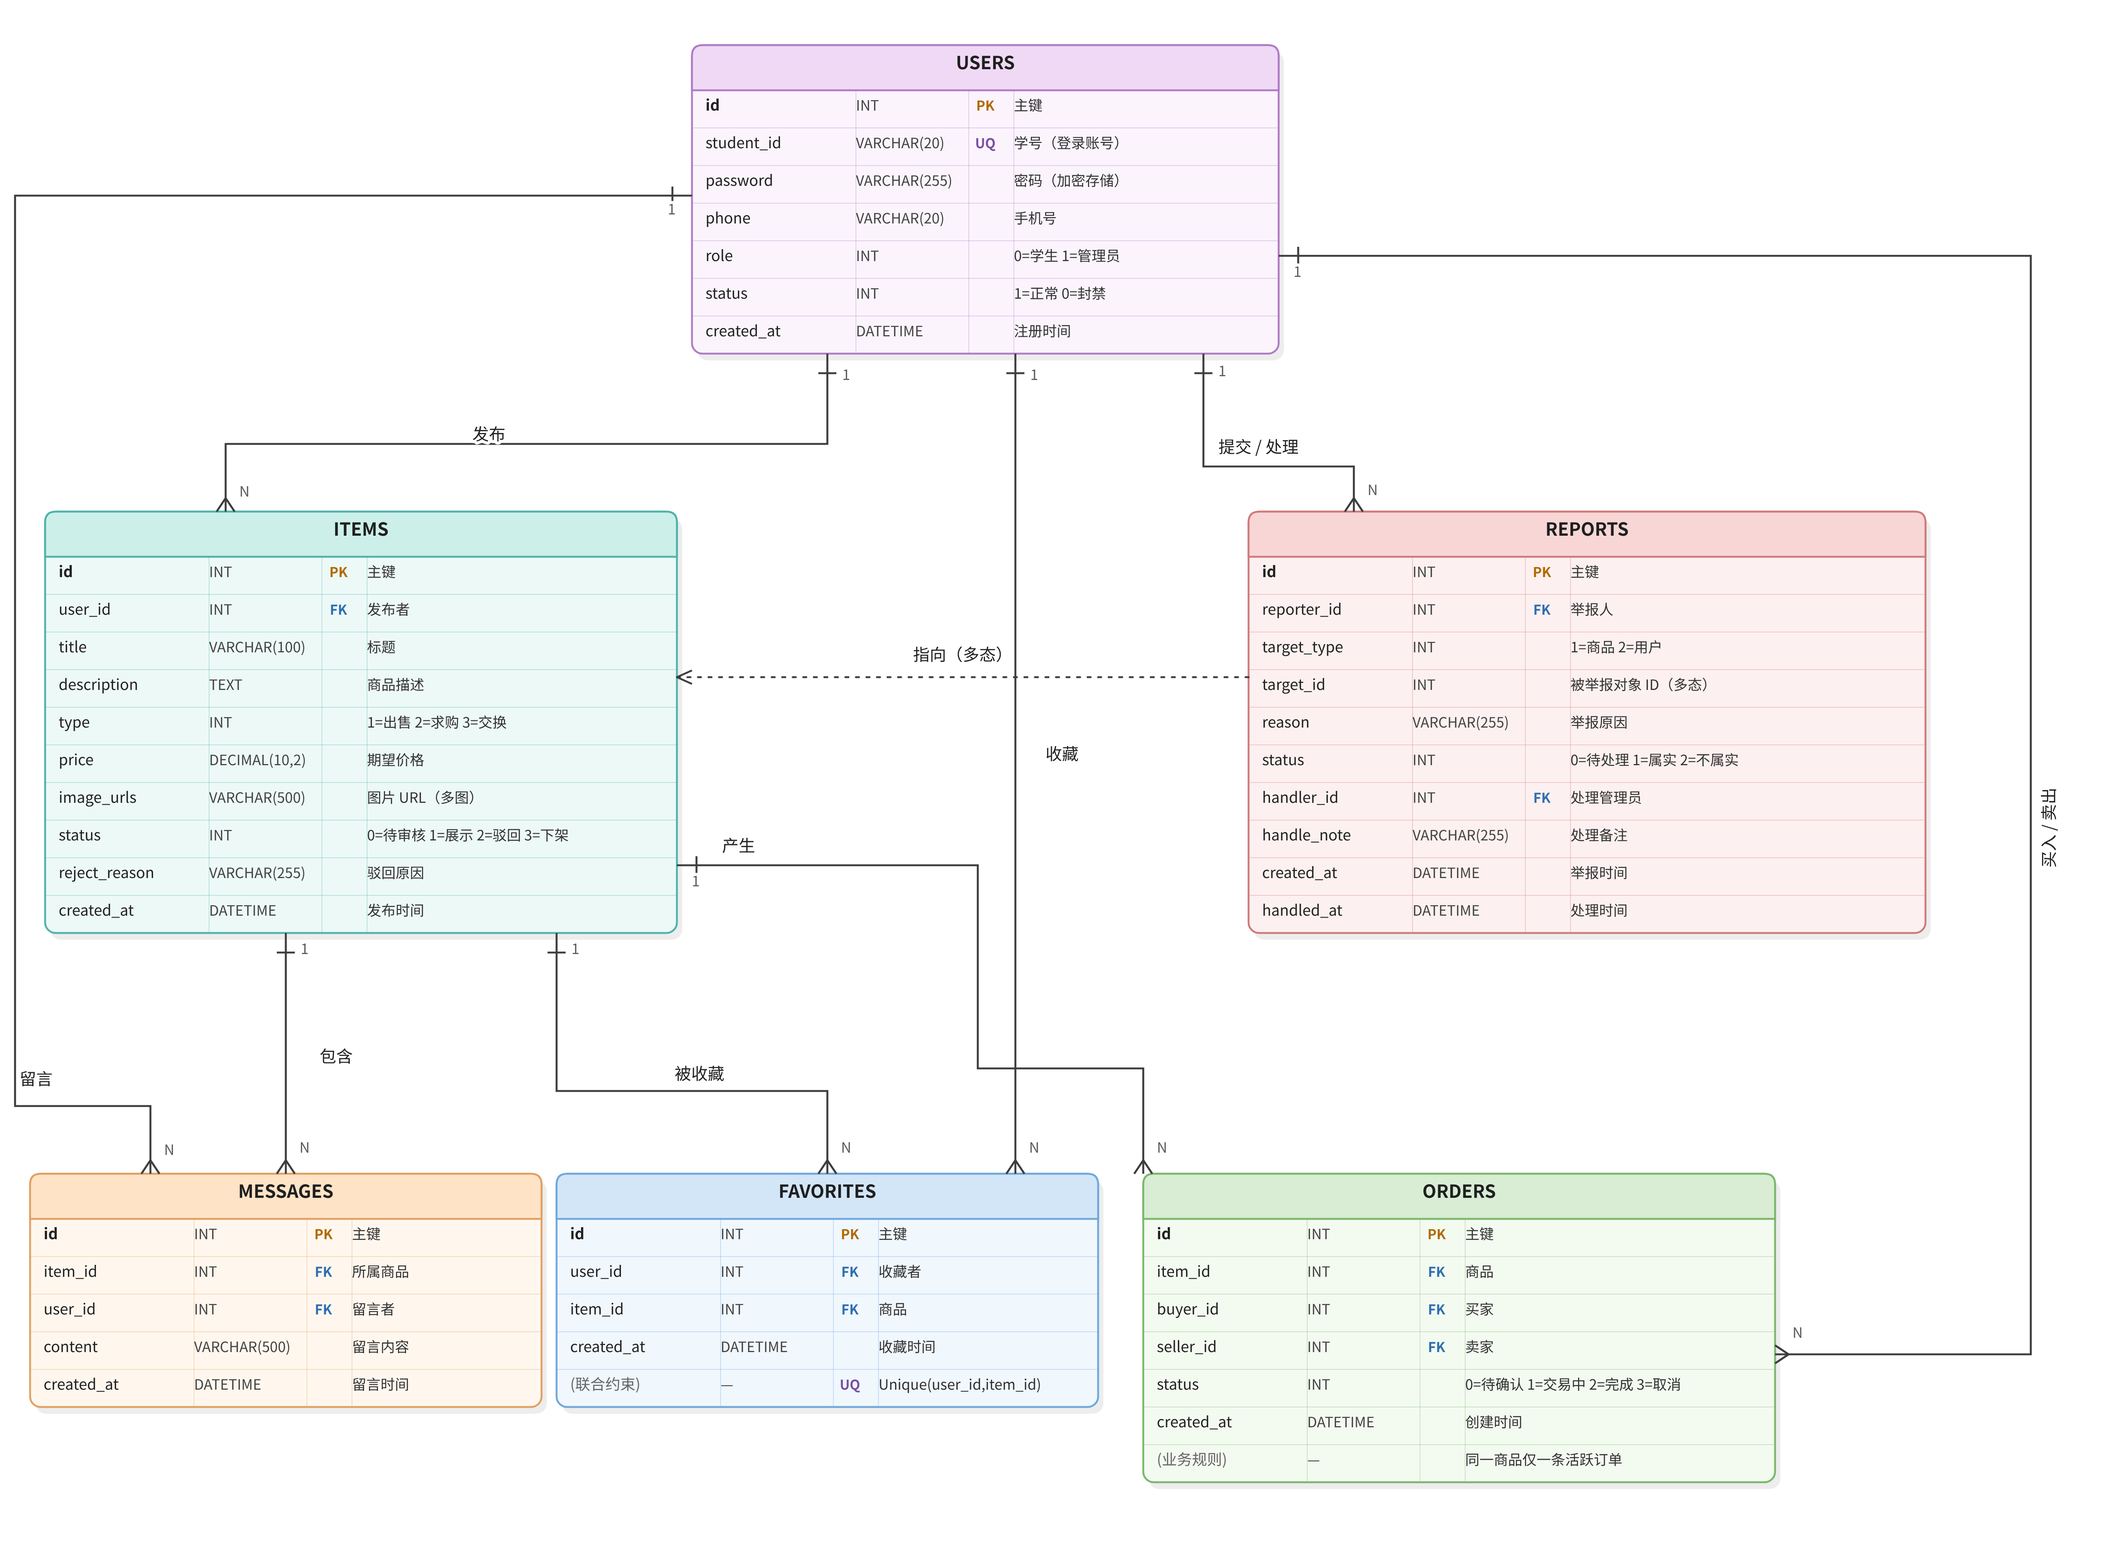
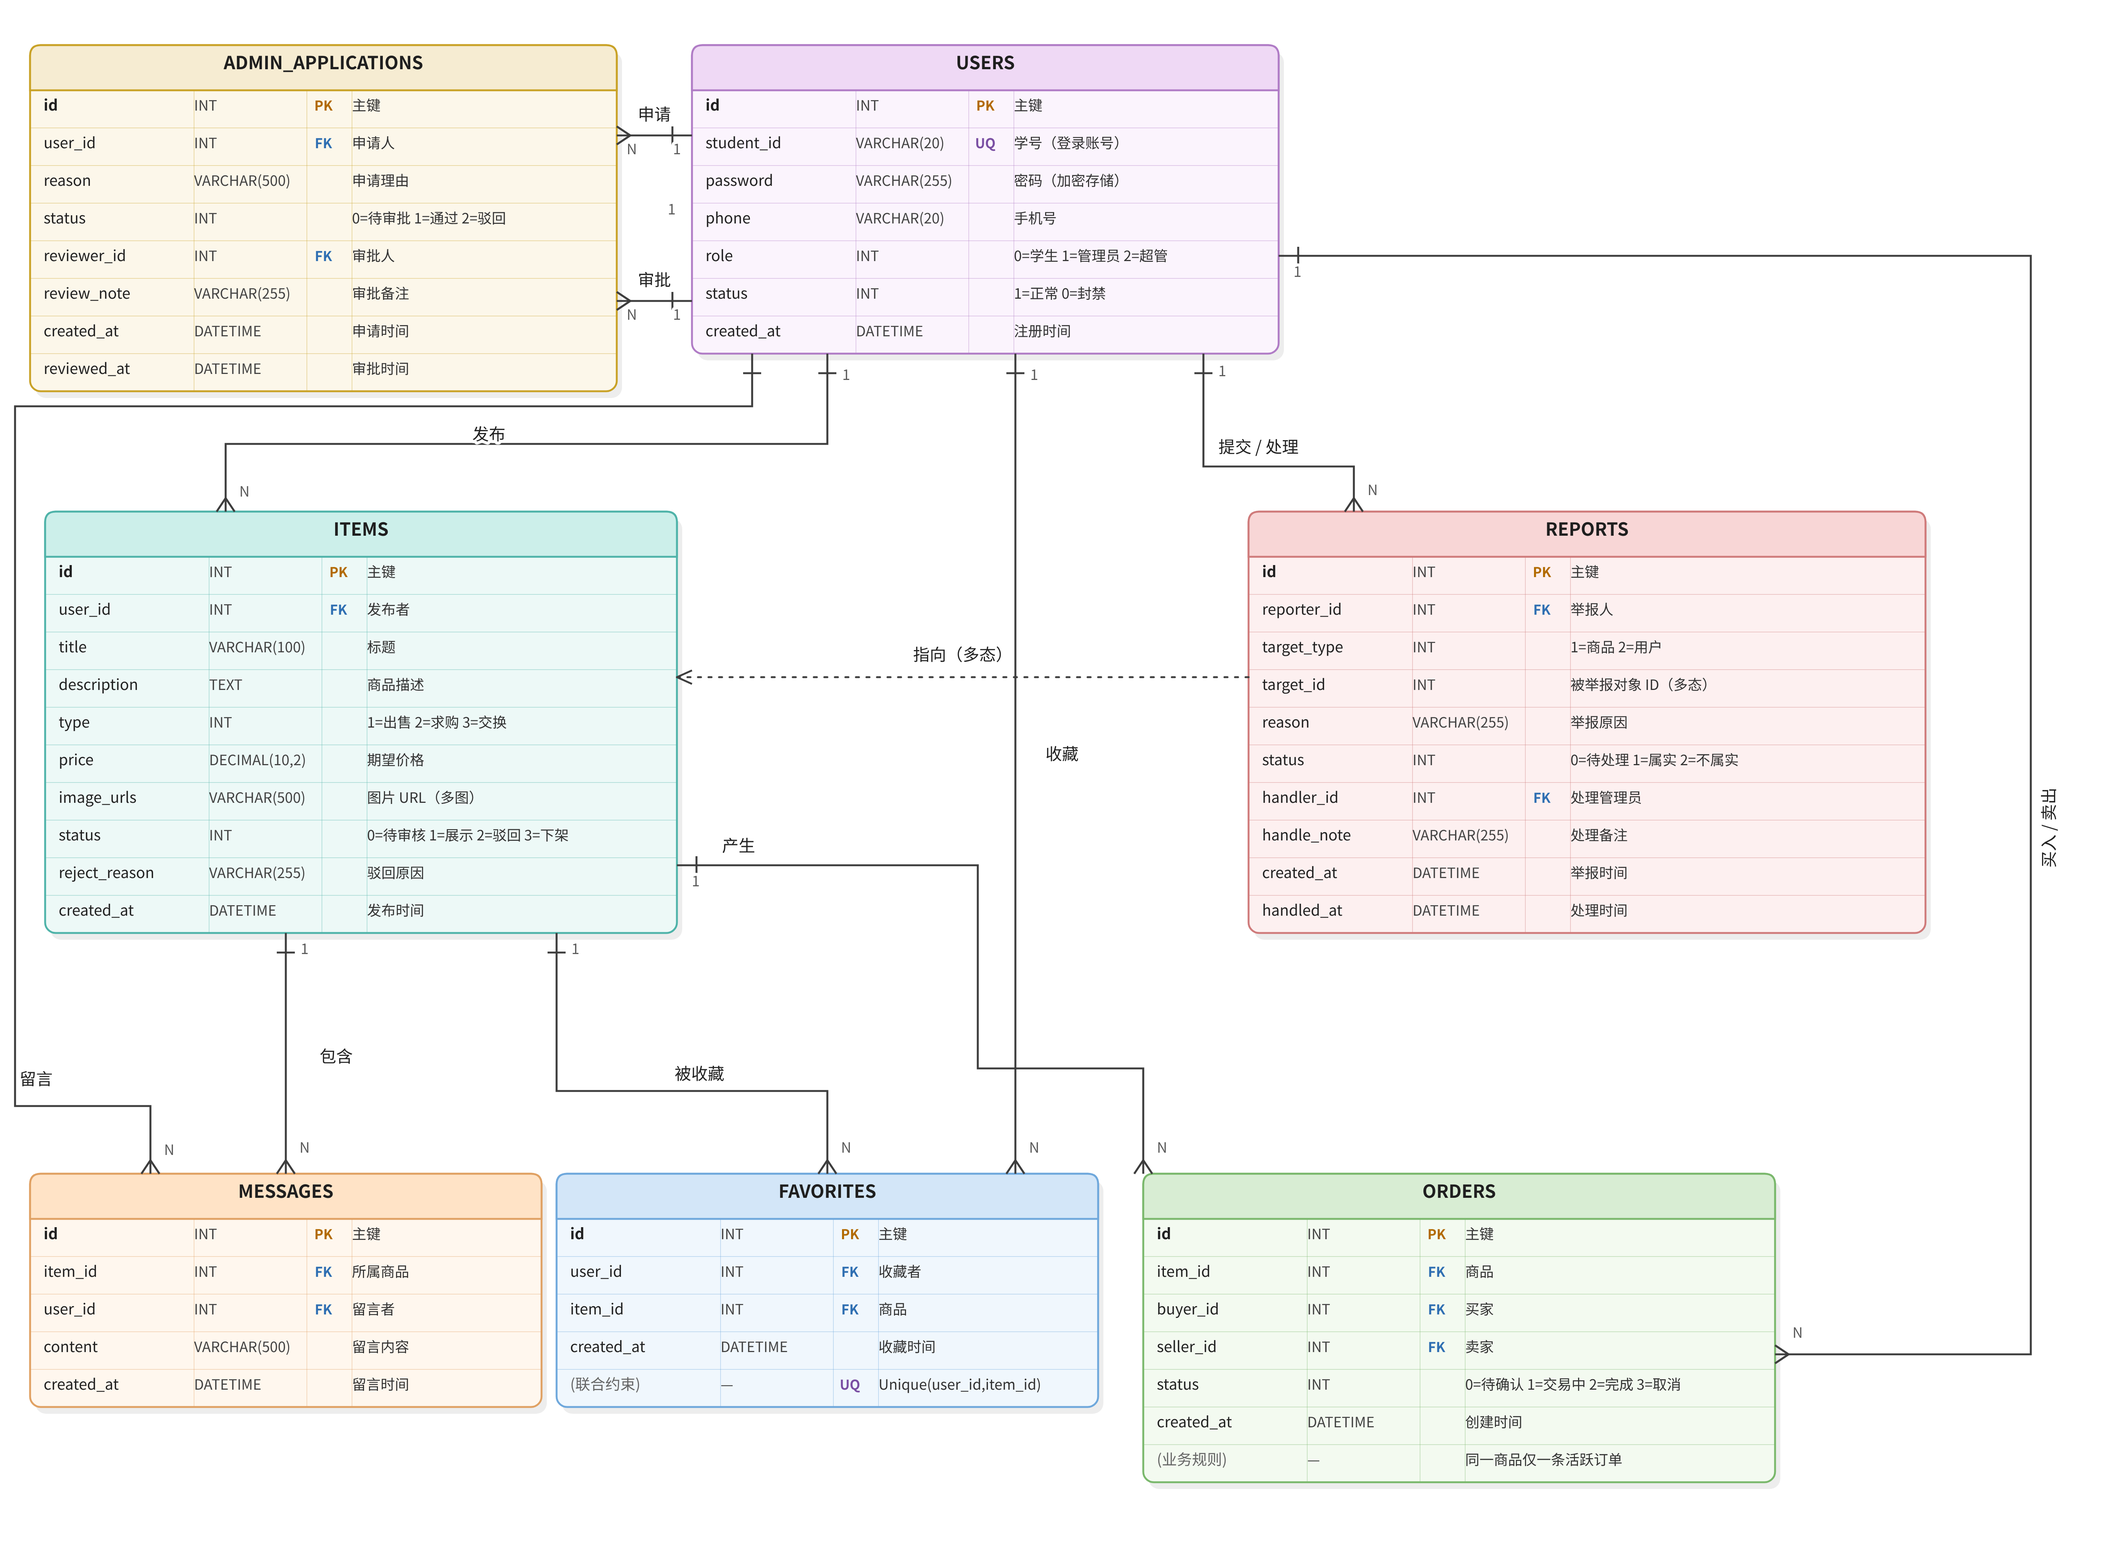
docs: document admin application workflow
- update role model, tables and interfaces in the design document
- add admin applications to ER and UML diagrams
- update README status

diff --git a/tools/make_diagrams.py b/tools/make_diagrams.py
@@ -141,6 +141,7 @@ C_MSG     = ("#FFE3C6", "#FFF7EE", "#E0A163")
 C_FAV     = ("#D3E6F8", "#F0F7FD", "#6FA8DC")
 C_ORDER   = ("#D8EDD3", "#F3FAF0", "#7AB86C")
 C_REPORT  = ("#F8D6D6", "#FDF0F0", "#CF7B7B")
+C_APP     = ("#F6ECD2", "#FCF7EA", "#C9A227")
 
 body = []
 def add(s): body.append(s)
@@ -150,7 +151,7 @@ users_rows = [
  ("student_id","VARCHAR(20)","UQ","学号（登录账号）"),
  ("password","VARCHAR(255)","","密码（加密存储）"),
  ("phone","VARCHAR(20)","","手机号"),
- ("role","INT","","0=学生 1=管理员"),
+ ("role","INT","","0=学生 1=管理员 2=超管"),
  ("status","INT","","1=正常 0=封禁"),
  ("created_at","DATETIME","","注册时间"),
 ]
@@ -189,6 +190,16 @@ order_rows = [
  ("created_at","DATETIME","","创建时间"),
  ("(业务规则)","—","","同一商品仅一条活跃订单"),
 ]
+app_rows = [
+ ("id","INT","PK","主键"),
+ ("user_id","INT","FK","申请人"),
+ ("reason","VARCHAR(500)","","申请理由"),
+ ("status","INT","","0=待审批 1=通过 2=驳回"),
+ ("reviewer_id","INT","FK","审批人"),
+ ("review_note","VARCHAR(255)","","审批备注"),
+ ("created_at","DATETIME","","申请时间"),
+ ("reviewed_at","DATETIME","","审批时间"),
+]
 report_rows = [
  ("id","INT","PK","主键"),
  ("reporter_id","INT","FK","举报人"),
@@ -203,6 +214,7 @@ report_rows = [
 ]
 
 t_users   = (920, 60,  780)
+t_apps    = (40,  60,  780)
 t_items   = (60,  680, 840)
 t_reports = (1660,680, 900)
 t_msgs    = (40,  1560,680)
@@ -211,6 +223,7 @@ t_orders  = (1520,1560,840)
 
 for (x,y,w), title, rows, cols in [
     (t_users,   "USERS",    users_rows,  C_USERS),
+    (t_apps,    "ADMIN_APPLICATIONS", app_rows, C_APP),
     (t_items,   "ITEMS",    items_rows,  C_ITEMS),
     (t_reports, "REPORTS",  report_rows, C_REPORT),
     (t_msgs,    "MESSAGES", msg_rows,    C_MSG),
@@ -222,7 +235,7 @@ for (x,y,w), title, rows, cols in [
 
 # edges
 add(edge([(1100,470),(1100,590),(300,590),(300,680)], one=0, many=-1))
-add(edge([(920,260),(20,260),(20,1470),(200,1470),(200,1560)], one=0, many=-1))
+add(edge([(1000,470),(1000,540),(20,540),(20,1470),(200,1470),(200,1560)], one=0, many=-1))
 add(edge([(380,1240),(380,1560)], one=0, many=-1))
 add(edge([(740,1240),(740,1450),(1100,1450),(1100,1560)], one=0, many=-1))
 add(edge([(1350,470),(1350,1560)], one=0, many=-1))
@@ -230,6 +243,8 @@ add(edge([(1700,340),(2700,340),(2700,1800),(2360,1800)], one=0, many=-1))
 add(edge([(1600,470),(1600,620),(1800,620),(1800,680)], one=0, many=-1))
 add(edge([(1660,900),(900,900)], dashed=True, arrow_end=-1))
 add(edge([(900,1150),(1300,1150),(1300,1420),(1520,1420),(1520,1560)], one=0, many=-1))
+add(edge([(920,180),(820,180)], one=0, many=-1))
+add(edge([(920,400),(820,400)], one=0, many=-1))
 
 # edge labels
 for s in [
@@ -242,6 +257,8 @@ for s in [
     text(1620,602,"提交 / 处理",22,"start",halo=True),
     text(1280,878,"指向（多态）",22,"middle",halo=True),
     text(960,1132,"产生",22,"start",halo=True),
+    text(870,160,"申请",22,"middle",halo=True),
+    text(870,380,"审批",22,"middle",halo=True),
 ]:
     add(s)
 # cardinality labels
@@ -254,6 +271,8 @@ for x,y,s in [
     (1725,368,"1"),(2390,1778,"N"),
     (1625,500,"1"),(1825,658,"N"),
     (925,1178,"1"),(1545,1532,"N"),
+    (900,205,"1"),(840,205,"N"),
+    (900,425,"1"),(840,425,"N"),
 ]:
     add(text(x,y,s,19,"middle","normal","#5c5c5c",halo=True))
 
@@ -267,6 +286,7 @@ U_USER  = ("#F1DDF2", "#B07CC6")
 U_ITEM  = ("#D6F1EC", "#4FB3A9")
 U_REP   = ("#F8DCD8", "#CF7B7B")
 U_ORD   = ("#E1F1D8", "#7AB86C")
+U_APP   = ("#F8EFD4", "#C9A227")
 
 body2 = []
 def add2(s): body2.append(s)
@@ -308,6 +328,9 @@ item_methods = ["+create_item()","+update_item()","+off_shelf()"]
 report_attrs = ["+report_id: int","+reporter_id: int","+target_type: int","+target_id: int",
                 "+reason: str","+status: int","+handler_id: int"]
 report_methods = ["+create_report()","+get_pending_reports()"]
+app_attrs = ["+application_id: int","+user_id: int","+reason: str","+status: int",
+             "+reviewer_id: int","+review_note: str"]
+app_methods = ["+apply()","+review()"]
 order_attrs = ["+order_id: int","+item_id: int","+buyer_id: int","+seller_id: int","+status: int"]
 order_methods = ["+create_order()","+confirm_trade()","+cancel_order()"]
 
@@ -317,6 +340,7 @@ for (x,y,w), name, attrs, meths, cols in [
     ((80,820,640),  "Item",         item_attrs,  item_methods,  U_ITEM),
     ((1000,1500,640),"Report",      report_attrs,report_methods,U_REP),
     ((1000,2180,600),"Order",       order_attrs, order_methods, U_ORD),
+    ((100,1650,700), "AdminApplication", app_attrs, app_methods, U_APP),
 ]:
     s, _ = uml_class(x, y, w, name, attrs, meths, *cols)
     add2(s)
@@ -324,8 +348,9 @@ for (x,y,w), name, attrs, meths, cols in [
 # associations
 add2(edge([(1320,620),(760,620),(760,760),(520,760),(520,820)], one=0, many=-1))
 add2(edge([(1500,826),(1500,1500)], one=0, many=-1))
+add2(edge([(1320,760),(900,760),(900,1450),(500,1450),(500,1650)], one=0, many=-1))
 add2(edge([(1920,700),(2380,700),(2380,2400),(1600,2400)], one=0, many=-1))
-add2(edge([(300,1294),(300,2400),(1000,2400)], one=0, many=-1))
+add2(edge([(300,1294),(300,1400),(40,1400),(40,2400),(1000,2400)], one=0, many=-1))
 # dependencies
 add2(edge([(900,276),(900,740),(400,740),(400,820)], dashed=True, arrow_end=-1))
 add2(edge([(1480,140),(2050,140),(2050,520),(1920,520)], dashed=True, arrow_end=-1))
@@ -337,6 +362,7 @@ for s in [
     text(1530,1150,"提交",22,"start",halo=True),
     text(2410,1500,"买入 / 卖出",22,"middle",rot=-90,halo=True),
     text(650,2378,"产生",22,"middle",halo=True),
+    text(1100,742,"申请 / 审批",22,"middle",halo=True),
     text(650,716,"审核依赖",22,"middle",halo=True),
     text(1760,116,"封禁依赖",22,"middle",halo=True),
     text(1176,900,"处理举报依赖",22,"middle",rot=-90,halo=True),
@@ -348,6 +374,7 @@ for x,y,s in [
     (1525,855,"1"),(1525,1475,"*"),
     (1945,725,"1"),(1615,2378,"*"),
     (325,1320,"1"),(975,2378,"*"),
+    (1295,735,"1"),(525,1630,"*"),
 ]:
     add2(text(x,y,s,19,"middle","normal","#5c5c5c",halo=True))
 

diff --git a/软件设计说明书.md b/软件设计说明书.md
@@ -42,7 +42,7 @@
 2. **Item 模块（商品表）**：负责闲置物品的发布（出售/求购/交换）、多图上传及压缩处理、编辑下架、分类与关键字搜索。
 3. **Interaction 模块（留言表/收藏表）**：负责商品详情页的留言沟通、用户的收藏/取消收藏功能。
 4. **Order 模块（订单表）**：负责生成交易意向订单、状态更新（待交易、已完成等），作为线下凭证。
-5. **Admin 模块（商品审核 / 举报表）**：负责后台的商品审核（通过/驳回）、处理用户的举报工单。
+5. **Admin 模块（商品审核 / 举报 / 管理员申请表）**：负责商品审核（通过/驳回）、处理举报工单，并支持普通用户申请管理员、由超级管理员审批。
 
 
 # 第二章 数据设计
@@ -56,13 +56,15 @@
 
 ## 2.2 E-R 图设计思路
 
-- **实体（矩形）**：用户（User）、商品（Item）、订单（Order）、留言（Message）、收藏（Favorite）、举报（Report）。
+- **实体（矩形）**：用户（User）、商品（Item）、订单（Order）、留言（Message）、收藏（Favorite）、举报（Report）、管理员申请（AdminApplication）。
 - **联系（菱形）**：
     - **发布**：1个用户(1) 可以发布多个商品(N)。
     - **留言**：1个用户(1) 可以发布多条留言(N)，1个商品(1) 可以包含多条留言(N)。
     - **收藏**：1个用户(1) 可以收藏多个商品(N)，1个商品(1) 可以被多个用户收藏(M)。（多对多，在物理表中转化为中间表）。
     - **交易**：1个买家(1) 可以发起多个订单(N)，1个商品(1) 只能对应1个最终生效的订单(1)。
     - **举报**：1个用户(1) 可以提交多条举报(N)；1条举报(1) 只针对1个被举报对象（商品或用户）。
+    - **申请**：1个学生(1) 可以提交多条管理员申请(N)；同一时间最多保留1条待审批申请。
+    - **审批**：1个超级管理员(1) 可以审批多条管理员申请(N)。
 
 <div align="center">
   <img src="resource/ER.png"/>
@@ -73,7 +75,7 @@
 
 ## 2.3 核心库表清单
 
-以下为系统的 6 张核心数据表结构设计：
+以下为系统的 7 张核心数据表结构设计：
 
 ### 表1：用户表（`users`）
 
@@ -83,7 +85,7 @@
 |`student_id`|VARCHAR(20)|唯一，非空|学号（登录账号）|
 |`password`|VARCHAR(255)|非空|密码（需加密存储）|
 |`phone`|VARCHAR(20)|可空|手机号（用于找回密码/联系）|
-|`role`|INT|默认 0|角色（0=学生/普通用户，1=平台管理员）|
+|`role`|INT|默认 0|角色（0=学生，1=平台管理员，2=超级管理员）|
 |`status`|INT|默认 1|状态（1=正常，0=封禁）|
 |`created_at`|DATETIME|默认当前时间|注册时间|
 
@@ -149,6 +151,19 @@
 |`created_at`|DATETIME|默认当前时间|举报时间|
 |`handled_at`|DATETIME|可空|处理时间|
 
+### 表7：管理员申请表（`admin_applications`）
+
+|字段名|数据类型|约束|说明|
+|---|---|---|---|
+|`id`|INT|主键，自增|申请记录唯一标识|
+|`user_id`|INT|外键，非空|申请人 ID（关联 users 表）|
+|`reason`|VARCHAR(500)|非空|申请理由|
+|`status`|INT|默认 0|审批状态（0=待审批，1=已通过，2=已驳回）|
+|`reviewer_id`|INT|可空，外键|审批人 ID（关联 users 表，超级管理员）|
+|`review_note`|VARCHAR(255)|可空|审批备注|
+|`created_at`|DATETIME|默认当前时间|申请时间|
+|`reviewed_at`|DATETIME|可空|审批时间|
+
 ## 2.4 数据关系模式
 
 - **用户** (`id`, 学号, 密码, 手机号, 角色, 状态, 注册时间)
@@ -157,6 +172,7 @@
 - **收藏** (`id`, 用户ID, 商品ID, 收藏时间)
 - **订单** (`id`, 商品ID, 买家ID, 卖家ID, 状态, 创建时间)
 - **举报** (`id`, 举报人ID, 举报对象类型, 举报对象ID, 举报原因, 处理状态, 处理人ID, 处理备注, 举报时间, 处理时间)
+- **管理员申请** (`id`, 申请人ID, 申请理由, 审批状态, 审批人ID, 审批备注, 申请时间, 审批时间)
 
 
 # 第三章 接口设计
@@ -310,6 +326,37 @@
 { "code": 200, "msg": "举报处理成功" }
 ```
 
+### 接口8：提交管理员申请
+
+- **功能说明**：普通学生提交成为平台管理员的申请。
+- **请求 URI**：`POST /api/v1/admin-applications`
+- **权限要求**：需登录（学生，role=0）
+- **请求体 (JSON)**：
+```json
+{ "reason": "希望协助审核商品并处理举报工单，每周可在线 10 小时以上" }
+```
+(注：理由长度 10～500 字；已有待审批申请时不可重复提交；被驳回后 3 天内不可再次申请)
+- **响应示例 (201 Created)**：
+```json
+{ "code": 201, "msg": "申请已提交，请等待超级管理员审批", "data": { "application_id": 1 } }
+```
+
+### 接口9：审批管理员申请（超级管理员）
+
+- **功能说明**：超级管理员查看申请列表并通过或驳回；通过后申请人角色变为平台管理员。
+- **列表接口**：`GET /api/v1/admin/applications?status=0&page=1&size=10`
+- **请求 URI**：`PUT /api/v1/admin/applications/{application_id}`
+- **权限要求**：需登录（超级管理员，role=2）
+- **请求体 (JSON)**：
+```json
+{ "status": 1, "review_note": "同意，先试用两周" }
+```
+(注：status=1 通过，2 驳回；仅待审批状态的申请可处理)
+- **响应示例 (200 OK)**：
+```json
+{ "code": 200, "msg": "申请已通过", "data": { "application_id": 1, "status": 1 } }
+```
+
 # 第四章 组件设计
 
 ## 4.1 核心类设计
@@ -331,6 +378,9 @@
 5. **`AuditService`（审核服务类）**：
     - **职责**：专门处理管理员的审核与举报处理业务，不直接与商品数据表耦合，而是通过调用对应的方法实现。
     - **方法**：`approve_item(item_id)`, `reject_item(item_id, reason)`, `ban_user(user_id)`, `handle_report(report_id, status, note)`。
+6. **`AdminApplication`（管理员申请类）**：
+    - **属性**：`application_id`, `user_id`, `reason`, `status`, `reviewer_id`, `review_note`。
+    - **方法**：`apply()`, `review()`。
 
 <div align="center">
   <img src="resource/UML.png"/>

diff --git a/README.md b/README.md
@@ -22,15 +22,16 @@ tools/              图表生成脚本
 ## 当前状态
 
 - 后端可启动，`/api/v1/health` 正常，Swagger 文档 `/docs` 可访问
-- 6 张数据表已通过 Alembic 建表（`alembic upgrade head`）
+- 7 张数据表已通过 Alembic 建表（`alembic upgrade head`）
 - **Auth/User 模块已实现**：注册、登录、JWT 鉴权、封禁拦截（`/auth/register`、`/auth/login`、`/auth/me`）
 - **Item 模块已实现**：图片上传与压缩、发布、列表/搜索/分页、详情、编辑重审、下架、管理员审核
 - **Interaction 模块已实现**：商品留言（发布/列表）、收藏/取消收藏、我的收藏
 - **Order 模块已实现**：发起订单、我的订单、卖家确认、完成交易、取消订单
 - **Admin/举报模块已实现**：提交举报、我的举报、管理员查看与处理举报工单、用户封禁
+- **管理员申请已实现**：学生提交申请、超级管理员审批；角色分为学生（0）、管理员（1）、超级管理员（2）
 - 五个核心业务模块的全部接口均已实现
 - 前端页面与路由：首页 / 商品详情 / 登录注册 / 发布 / 个人中心 / 管理后台
-- 首页、发布、商品详情（留言与收藏）、我的发布/收藏/订单/举报、管理后台审核与举报处理均已接入真实接口
+- 首页、发布、商品详情（留言与收藏）、我的发布/收藏/订单/举报、管理员申请、管理后台审核/举报处理均已接入真实接口
 
 ## 启动后端
 
